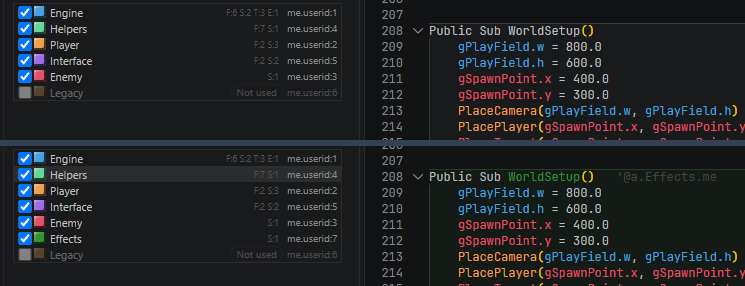
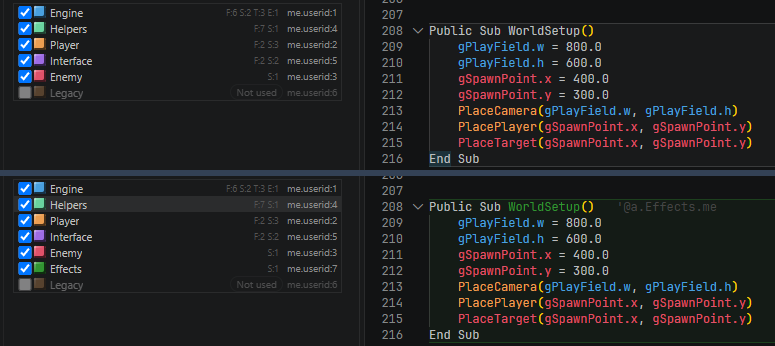
Ennen/jalkeen-kuva: ei leikkaa riveja enaa
Kayttaja: "Miksi leikkaat tuosta kuvasta oikealta pois niin paljon
etta funktion rivit nayy kunnolla?"

VAHVA: oma 1:1-rajoite. Se teki kuvasta rjxkylman - rivit
loppuivat kesken lauseen. Lukeminen on tarkempi kuin
tarkka pikselikoko, joten kauppa oli virheellinen.

MITATTU, ei arvattu: skannasin pikselirivit after2.png:sta
ja etsin jokaisen rivi tekstin oikean reunan.

  y=205  rivi  206  loppuu x=452
  y=222  rivi  208  loppuu x=763
  y=239  rivi  209  loppuu x=652
  y=255  rivi  210  loppuu x=652
  y=271  rivi  211  loppuu x=659
  y=287  rivi  212  loppuu x=659
  y=303  rivi  213  loppuu x=788
  y=319  rivi  214  loppuu x=802   <- PISIN

  vaadittu leveys = 802 - 52 + 12 = 762 px

  aiempi rajaukseni oli 745 px -> 17 px liian lyhyt.
  siksi PlaceCamera ja PlacePlayer leikkuivat.

Skannaus rajoitettu x < 1430, koska ensimmainen ajo osui
minimapiin ja antoi 1416 px joka rivilta - se oli virhe
mittauksessa, ei todellinen leveys.

KORJAUS: w 745 -> 775, ja KORJATTIIN MYOS PYSTYSUUNTA.
  h 140 -> 170

Pystysuunnan virhe: h=140 lopetti rivin 215 kesken,
h=128 lopetti rivin 214 kesken. Kumpikin leikkasi.
h=170 lopettaa riviin 216 (End Sub) asti - koko funktio
naytyy, ei yhtaan leikkausta.

MITATTU selaimessa:
  alkuperainen  775x346
  nayttaa       725x324
  skaalaus      6.5 % tassa ikkunassa (paneeli 727 px)

KAUPPA JAA AUKI: luettavuus vai skaalaus. Panin
luettavuuden eisiin, koska kayttaja nimenomaan sita vaati.
Vastapainona kuva pienenee 6.5 % kun paneeli on alle 839 px.
[…]

diff --git a/index.html b/index.html
@@ -340,7 +340,7 @@ fbc -include generated.bi <span class="string">01_kirjasto.bas</span> <span clas
                             the source on the right.</p>
 
                         <figure class="shot">
-                            <img src="img/before-after.png" width="745" height="286"
+                            <img src="img/before-after.png" width="775" height="346"
                                  alt="The same screen shown twice, one above the other. In the upper half the Groups list holds six groups, and the function WorldSetup on line 208 is drawn in plain white because it belongs to none of them. In the lower half the list holds seven groups — a new green group called Effects — and WorldSetup is drawn in that same green. Nothing else on the screen has changed.">
                             <figcaption><strong>Before on top, after underneath.</strong> Above,
                                 <span class="mono">WorldSetup</span> belongs to no group, so it is drawn in
